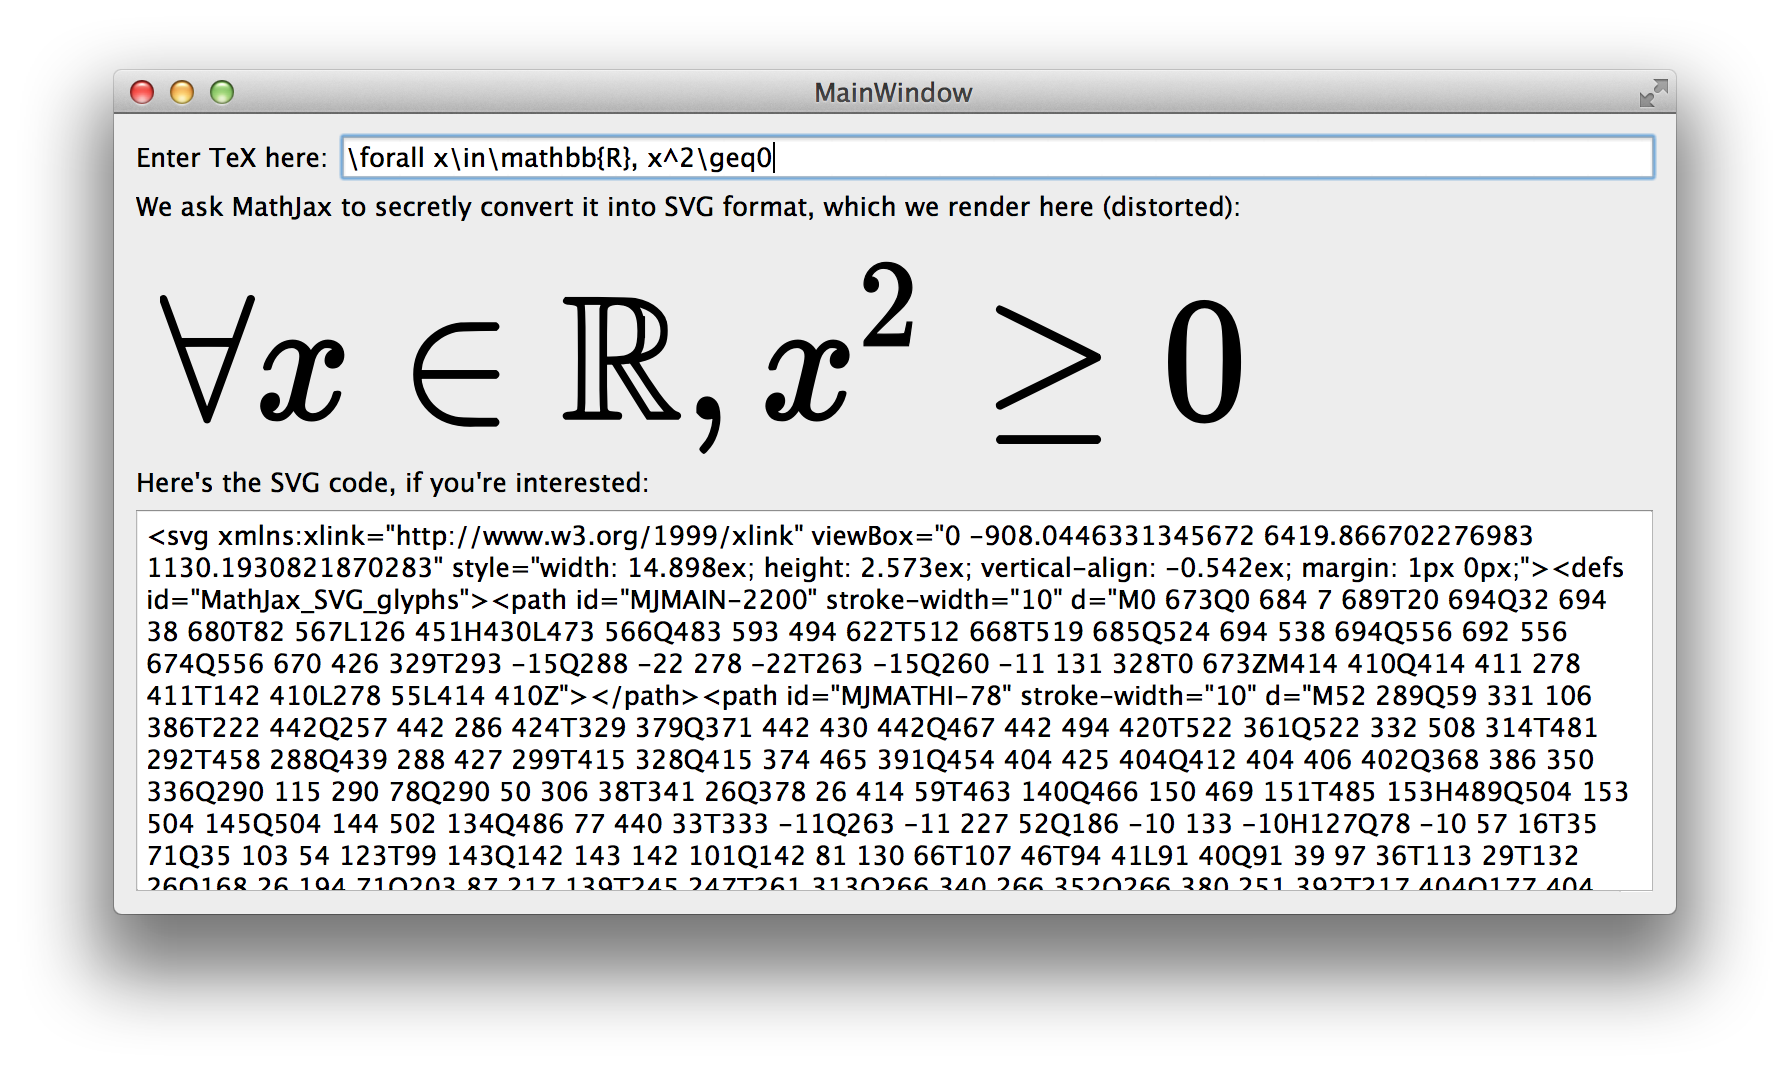
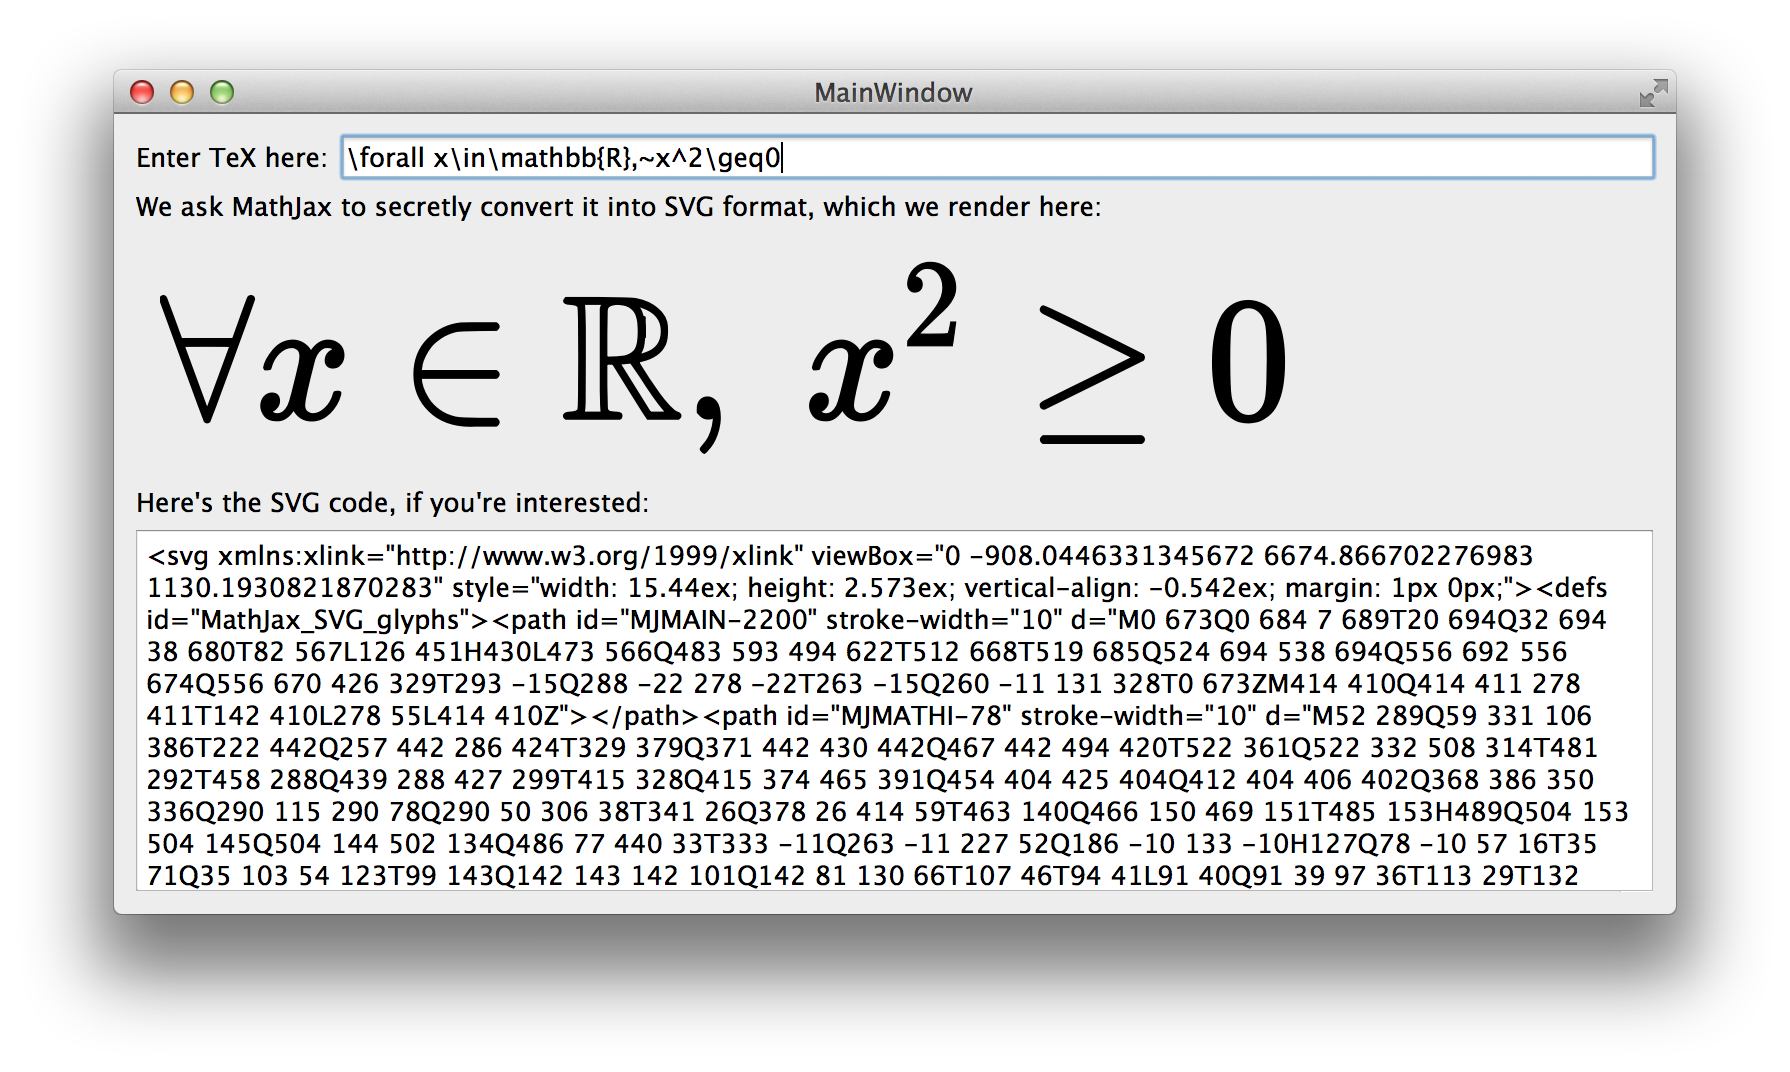
Tweaking example app's UI and updating screenshot

diff --git a/example/mainwindow.cpp b/example/mainwindow.cpp
@@ -27,7 +27,7 @@ void MainWindow::runMathJax ()
     svg->load( svgCode.toUtf8() );
     ui->plainTextEdit->setPlainText( svgCode );
     QSize s = svg->sizeHint();
-    ui->widget->setMinimumSize( QSize( s.width()*HT/s.height(), HT*1.1 ) );
-    ui->widget->setMaximumSize( QSize( s.width()*HT/s.height(), HT*1.1 ) );
+    ui->widget->setMinimumSize( QSize( s.width()*HT/s.height(), HT*1.2 ) );
+    ui->widget->setMaximumSize( QSize( s.width()*HT/s.height(), HT*1.2 ) );
     ui->widget->layout()->update();
 }
